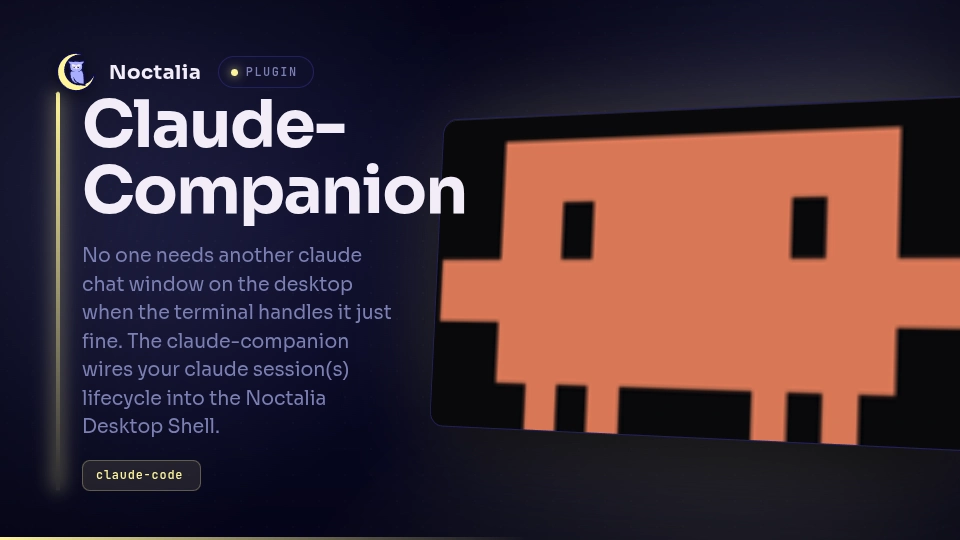
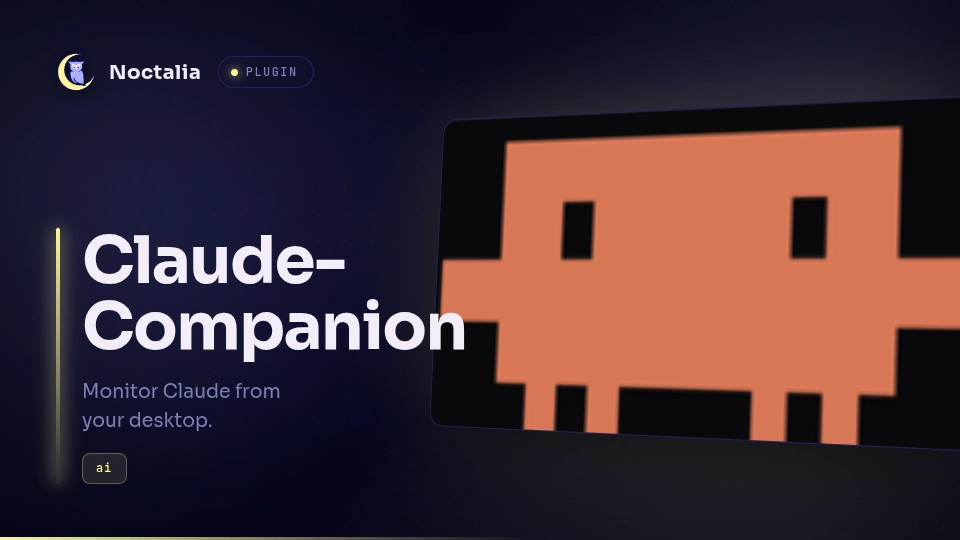
Readme: add IPC and Notes. Shipped corrrect thumbnail

Changed region(s): [[0.0312, 0.1778, 0.5, 0.8], [0.0625, 0.8296, 0.2188, 0.9185]]

diff --git a/README.md b/README.md
@@ -203,6 +203,42 @@ at 0600, and each response must echo a nonce from its request. Without
 > meant to persist. On an impermanent root, make sure that path is on your persist list
 > or you will re-approve everything after each boot.
 
+## IPC
+
+Every entry id, and the exact command that reaches it. The plugin id is
+`lowcache/claude-companion`; the part after the `:` is the entry id from `plugin.toml`.
+
+Panels — `answer`, `sessions`, `consent`, `ask`:
+
+```sh
+noctalia msg panel-toggle lowcache/claude-companion:answer
+noctalia msg panel-toggle lowcache/claude-companion:sessions
+noctalia msg panel-toggle lowcache/claude-companion:consent
+noctalia msg panel-toggle lowcache/claude-companion:ask
+```
+
+The pulse aggregator service — `pulse-svc`. Eight lifecycle events plus three control
+events; payload is a single space-free CSV. Full contract in [PROTOCOL.md](PROTOCOL.md):
+
+```sh
+noctalia msg plugin lowcache/claude-companion:pulse-svc all <event> [payload]
+noctalia msg plugin lowcache/claude-companion:pulse-svc all needs_attention   # bar icon -> red bell
+noctalia msg plugin lowcache/claude-companion:pulse-svc all idle              # back to robot
+```
+
+The quick-ask backend service — `claude-ask`. A bare poke; the question is written to
+`$XDG_RUNTIME_DIR/claude-companion/ask` first, because a payload cannot contain spaces:
+
+```sh
+noctalia msg plugin lowcache/claude-companion:claude-ask all ask
+```
+
+Launcher provider — id `claude`, **prefix `claude`**. Type `claude ` in the Noctalia
+launcher to start a session, or `claude ? <question>` for a quick-ask.
+
+The bar widget `pulse` and the desktop widget `orb` are pure subscribers to the
+`claude.pulse` shared-state key and take no IPC of their own.
+
 ## Wiring up other agents
 
 None of this is Claude-specific under the hood. The pulse speaks a plain event format and doesn't care who's talking — any agent, CI job, or shell script that can run a command on its own lifecycle can light up the same bar. [PROTOCOL.md](PROTOCOL.md) has the full eight-event vocabulary, the CSV payload, session semantics, and the adapter contract. The reference emitter, `hooks/pulse-emit`, is plain POSIX sh and needs nothing but `noctalia` on your PATH:
@@ -213,9 +249,26 @@ hooks/pulse-emit turn_end mysess gpt-5 12000 800
 hooks/pulse-emit session_end mysess
 ```
 
-## Rough edges
+## Notes
 
-A few things worth knowing before they surprise you:
+**What it writes.** Runtime files live in `$XDG_RUNTIME_DIR/claude-companion/` (tmpfs,
+0700, per-user): the consent `mode` mirror, the `presence` message, the `ask` handoff, and
+`consent/<id>.req|.res` while a prompt is outstanding. Durable state lives in
+`$XDG_STATE_HOME/noctalia/claude-companion/` (0600): `allow.jsonl` and `learn.jsonl` for the
+consent gate. The shim's memory tool also appends to `~/.memory/inbox/`.
+
+**What it spawns.** `noctalia msg …` for every dispatch; `python3` for the lifecycle hooks,
+the consent gate and the MCP shim; `notify-send` for toasts; `claude -p` for quick-ask only.
+The shim reads the compositor through `niri msg -j`, `hyprctl -j` or `swaymsg -t`, and media
+through `playerctl` — all read-only queries.
+
+**Network.** The plugin makes none. Quick-ask spawns `claude -p`, which talks to Anthropic's
+API exactly as Claude Code does from a terminal.
+
+**Compositors.** Everything except the shim's window/workspace tools is compositor-agnostic.
+Those tools support niri, Hyprland and Sway, detected from the running socket.
+
+**Rough edges.** A few things worth knowing before they surprise you:
 
 - Plugin panels render at `Layer::Top`, so an overlay window — a notification, a quake terminal, a polkit prompt — can sit on top of the answer panel. The answer's still there; clear the overlay and you'll see it. There's an upstream ask in for panel layer control.
 - Eight-digit hex alpha is ignored by bar widgets — brightness is done by scaling RGB toward black. (Earlier builds didn't fire `state.watch` on bars, so the pulse polled; the Noctalia 5 beta fires it, so the bar dot is now event-driven like the orb.)
